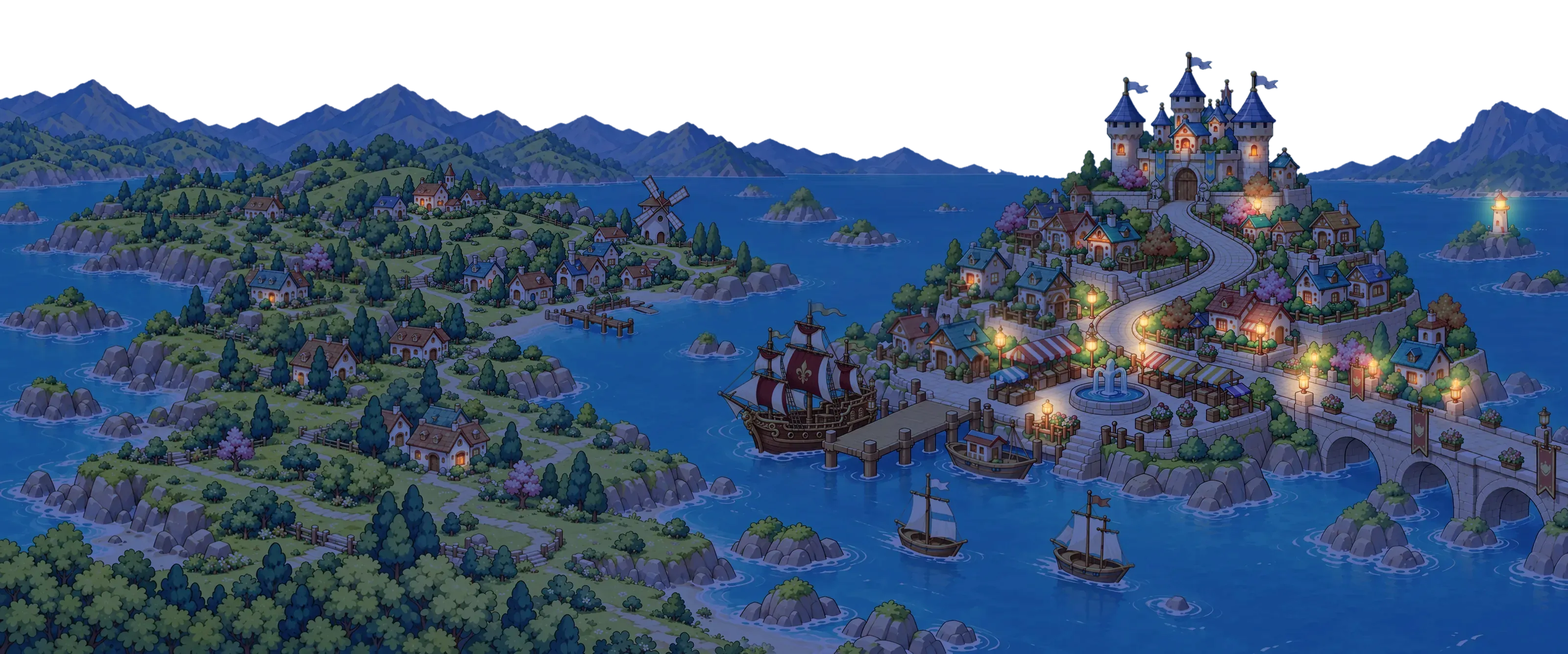
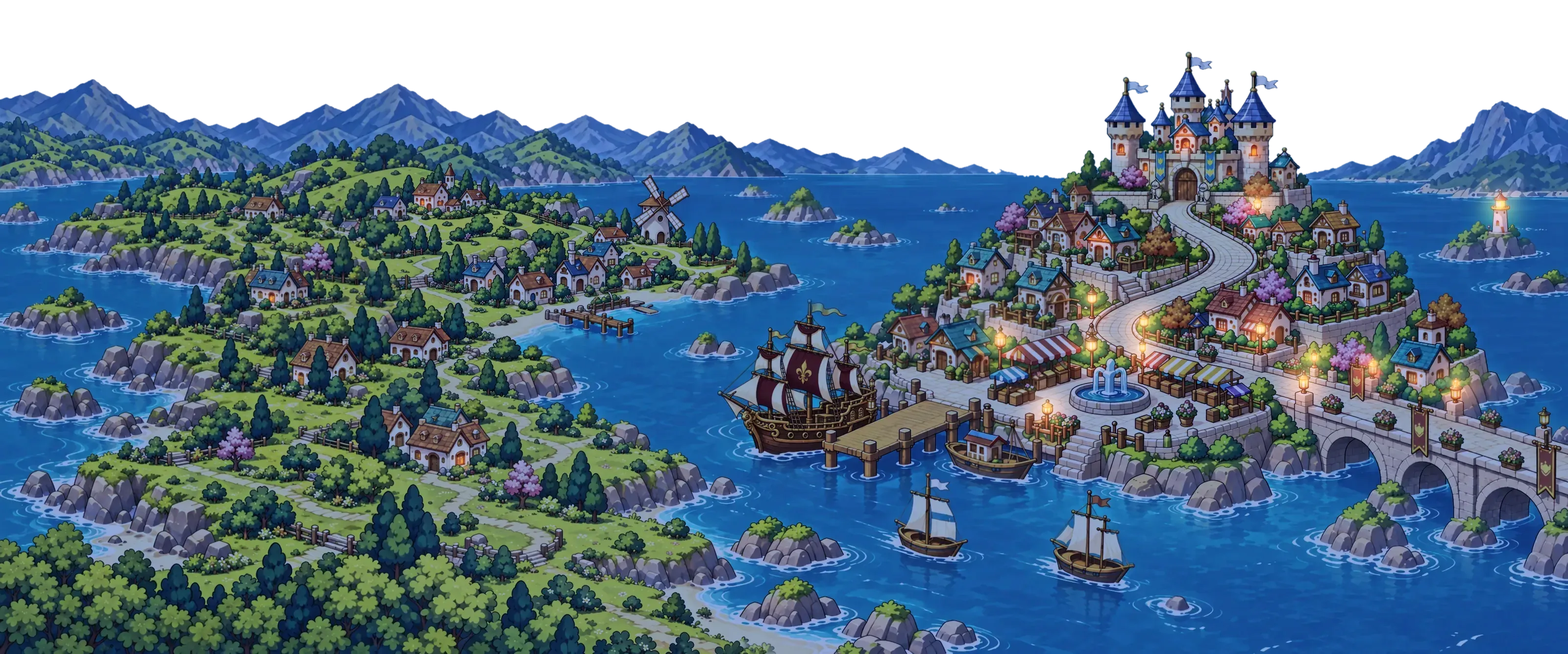
style(home): add moonlight and a moon path to the night map
- Silvery moonlight on the lit surfaces (roofs, towers, tree tops, rocks),
  stronger toward the moon, so the map reads brighter but still at night.
- A shimmering silver path on the water under the moon (two glint layers
  cross-fading; still under reduced motion).
- The flag, boat-water and windmill repair patches get baked night copies,
  so their edges no longer show against the moonlit map.

Changed region(s): [[0.0, 0.0921, 1.0, 1.0], [0.9375, 0.3993, 1.0, 0.4607]]

diff --git a/index.html b/index.html
@@ -2861,7 +2861,7 @@ assign art = '/assets/images/Redesign/' | relative_url %}
         background: rgb(248 235 214 / 0.4);
       }
 
-      /* Night map: the big layers swap to baked *-night.webp copies (markup), the small moving pieces take the same grade live through the #moonlit SVG filters, the sky gets stars and a moon, the birds stay home, and the pollen turns into fireflies (JS). */
+      /* Night map: the big layers and the repair patches swap to baked *-night.webp copies (markup; moonlight, window glow and light pools are baked in), the small moving pieces take the same grade live through the #moonlit SVG filters, the sky gets stars and a moon, the birds stay home, and the pollen turns into fireflies (JS). */
       html[data-mode="night"] .hero__scene {
         background: linear-gradient(#06091c 0%, #1c2858 30%, #2c3c70 75%);
       }
@@ -2869,10 +2869,8 @@ assign art = '/assets/images/Redesign/' | relative_url %}
         filter: url(#moonlit) brightness(0.9);
       }
       html[data-mode="night"] .hero__flag,
-      html[data-mode="night"] .hero__flag-repair,
       html[data-mode="night"] .hero__boat,
-      html[data-mode="night"] .hero__boat-water,
-      html[data-mode="night"] .hero__windmill img {
+      html[data-mode="night"] .hero__windmill-rotor {
         filter: url(#moonlit);
       }
       html[data-mode="night"] .hero__foam img {
@@ -2890,6 +2888,37 @@ assign art = '/assets/images/Redesign/' | relative_url %}
       }
       html[data-mode="night"] .hero__birds {
         display: none;
+      }
+      /* Moon path: silver glints on the water under the moon. Two glint layers cross-fade so the water shimmers. */
+      .hero__moonpath {
+        position: absolute;
+        inset: 0;
+        pointer-events: none;
+      }
+      .hero__moonpath img {
+        position: absolute;
+        inset: 0;
+        width: 100%;
+        height: 100%;
+        mix-blend-mode: screen;
+        animation: moon-shimmer 3.6s ease-in-out infinite alternate;
+      }
+      .hero__moonpath img + img {
+        animation-delay: -1.8s;
+      }
+      @keyframes moon-shimmer {
+        from {
+          opacity: 0.45;
+        }
+        to {
+          opacity: 1;
+        }
+      }
+      @media (prefers-reduced-motion: reduce) {
+        .hero__moonpath img {
+          animation: none;
+          opacity: 0.6;
+        }
       }
       html[data-mode="night"] .zzz {
         color: #e8e6ff;
@@ -3051,16 +3080,23 @@ assign art = '/assets/images/Redesign/' | relative_url %}
               </span>
             </div>
             <div class="hero__layer hero__l1 hero__flags is-paused" id="heroFlags" aria-hidden="true">
-              <img class="hero__boat-water" src="{{ art }}flag-boats-water.webp" alt="" style="--flag-x:54.37500%; --flag-y:68.91386%; --flag-w:18.12500%; " />
-              <img class="hero__flag-repair" src="{{ art }}flag-castle-left-repair.webp" alt="" style="--flag-x:71.90625%; --flag-y:12.58427%; --flag-w:1.34375%; " />
+              <img class="hero__boat-water for-morning" src="{{ art }}flag-boats-water.webp" alt="" style="--flag-x:54.37500%; --flag-y:68.91386%; --flag-w:18.12500%; " />
+              <img class="hero__boat-water for-night" src="{{ art }}flag-boats-water-night.webp" alt="" loading="lazy" style="--flag-x:54.37500%; --flag-y:68.91386%; --flag-w:18.12500%; " />
+              <div class="hero__moonpath for-night" aria-hidden="true"><img src="{{ art }}moon-path-a.webp" alt="" loading="lazy" /><img src="{{ art }}moon-path-b.webp" alt="" loading="lazy" /></div><!-- over the boats' water patch, under the boats -->
+              <img class="hero__flag-repair for-morning" src="{{ art }}flag-castle-left-repair.webp" alt="" style="--flag-x:71.90625%; --flag-y:12.58427%; --flag-w:1.34375%; " />
+              <img class="hero__flag-repair for-night" src="{{ art }}flag-castle-left-repair-night.webp" alt="" loading="lazy" style="--flag-x:71.90625%; --flag-y:12.58427%; --flag-w:1.34375%; " />
               <div class="hero__flag" style="--flag-x:71.90625%; --flag-y:12.58427%; --flag-w:1.34375%; --flag-pivot:4.651%; --flag-time:2.30s; --flag-delay:-0.00s; --flag-ratio:43/25;"><img class="hero__flag-source" src="{{ art }}flag-castle-left.webp" alt="" /></div>
-              <img class="hero__flag-repair" src="{{ art }}flag-castle-tall-repair.webp" alt="" style="--flag-x:75.93750%; --flag-y:8.61423%; --flag-w:1.46875%; " />
+              <img class="hero__flag-repair for-morning" src="{{ art }}flag-castle-tall-repair.webp" alt="" style="--flag-x:75.93750%; --flag-y:8.61423%; --flag-w:1.46875%; " />
+              <img class="hero__flag-repair for-night" src="{{ art }}flag-castle-tall-repair-night.webp" alt="" loading="lazy" style="--flag-x:75.93750%; --flag-y:8.61423%; --flag-w:1.46875%; " />
               <div class="hero__flag" style="--flag-x:75.93750%; --flag-y:8.61423%; --flag-w:1.46875%; --flag-pivot:4.255%; --flag-time:2.47s; --flag-delay:-0.53s; --flag-ratio:47/29;"><img class="hero__flag-source" src="{{ art }}flag-castle-tall.webp" alt="" /></div>
-              <img class="hero__flag-repair" src="{{ art }}flag-castle-right-repair.webp" alt="" style="--flag-x:80.12500%; --flag-y:11.31086%; --flag-w:1.43750%; " />
+              <img class="hero__flag-repair for-morning" src="{{ art }}flag-castle-right-repair.webp" alt="" style="--flag-x:80.12500%; --flag-y:11.31086%; --flag-w:1.43750%; " />
+              <img class="hero__flag-repair for-night" src="{{ art }}flag-castle-right-repair-night.webp" alt="" loading="lazy" style="--flag-x:80.12500%; --flag-y:11.31086%; --flag-w:1.43750%; " />
               <div class="hero__flag" style="--flag-x:80.12500%; --flag-y:11.31086%; --flag-w:1.43750%; --flag-pivot:4.348%; --flag-time:2.64s; --flag-delay:-1.06s; --flag-ratio:46/31;"><img class="hero__flag-source" src="{{ art }}flag-castle-right.webp" alt="" /></div>
-              <img class="hero__flag-repair" src="{{ art }}flag-pirate-main-repair.webp" alt="" style="--flag-x:51.75000%; --flag-y:46.06742%; --flag-w:2.31250%; " />
+              <img class="hero__flag-repair for-morning" src="{{ art }}flag-pirate-main-repair.webp" alt="" style="--flag-x:51.75000%; --flag-y:46.06742%; --flag-w:2.31250%; " />
+              <img class="hero__flag-repair for-night" src="{{ art }}flag-pirate-main-repair-night.webp" alt="" loading="lazy" style="--flag-x:51.75000%; --flag-y:46.06742%; --flag-w:2.31250%; " />
               <div class="hero__flag" style="--flag-x:51.75000%; --flag-y:46.06742%; --flag-w:2.31250%; --flag-pivot:2.703%; --flag-time:2.81s; --flag-delay:-1.59s; --flag-ratio:74/34;"><img class="hero__flag-source" src="{{ art }}flag-pirate-main.webp" alt="" /></div>
-              <img class="hero__flag-repair" src="{{ art }}flag-pirate-left-repair.webp" alt="" style="--flag-x:49.21875%; --flag-y:50.78652%; --flag-w:1.28125%; " />
+              <img class="hero__flag-repair for-morning" src="{{ art }}flag-pirate-left-repair.webp" alt="" style="--flag-x:49.21875%; --flag-y:50.78652%; --flag-w:1.28125%; " />
+              <img class="hero__flag-repair for-night" src="{{ art }}flag-pirate-left-repair-night.webp" alt="" loading="lazy" style="--flag-x:49.21875%; --flag-y:50.78652%; --flag-w:1.28125%; " />
               <div class="hero__flag" style="--flag-x:49.21875%; --flag-y:50.78652%; --flag-w:1.28125%; --flag-pivot:4.878%; --flag-time:2.98s; --flag-delay:-2.12s; --flag-ratio:41/17;"><img class="hero__flag-source" src="{{ art }}flag-pirate-left.webp" alt="" /></div>
               <div class="hero__boat" style="--flag-x:56.93750%; --flag-y:72.05993%; --flag-w:4.93750%; --boat-ratio:158/180; --boat-time:4.7s; --boat-delay:-4.0s;">
                 <img class="hero__boat-art" src="{{ art }}flag-boat-left-vessel.webp" alt="" />
@@ -3072,7 +3108,8 @@ assign art = '/assets/images/Redesign/' | relative_url %}
               </div>
             </div>
             <div class="hero__layer hero__l1 hero__windmill is-paused" id="heroWindmill" aria-hidden="true">
-              <img class="hero__windmill-repair" src="{{ art }}windmill-repair.webp" alt="" />
+              <img class="hero__windmill-repair for-morning" src="{{ art }}windmill-repair.webp" alt="" />
+              <img class="hero__windmill-repair for-night" src="{{ art }}windmill-repair-night.webp" alt="" loading="lazy" />
               <img class="hero__windmill-rotor" src="{{ art }}windmill-blades.webp" alt="" />
             </div>
             <div class="hero__layer hero__l1 hero__foam is-paused" id="heroFoam" aria-hidden="true">
